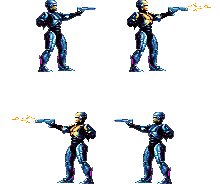
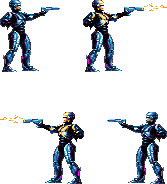
shooter funcionando a pleto

diff --git a/Entregable3/src/css/style.css b/Entregable3/src/css/style.css
@@ -60,7 +60,7 @@ html,body {
   /* Partimos de la primera viñeta del sprite sheet */
   0% { background-position: 0px}
   /* El tamaño total de ancho del sprite. Es negativo para que no "camine" hacia atrás */
-  100% { background-position:-763px}
+  100% { background-position:-760px}
 }
 @keyframes roboWalkRight {
   /* Partimos de la primera viñeta del sprite sheet */
@@ -70,9 +70,9 @@ html,body {
 }
 @keyframes shoot {
   /* Partimos de la primera viñeta del sprite sheet */
-  0% { background-position-x: -250px; background-position-y:0px }
+  0% { background-position-x: 0px;}
   /* El tamaño total de ancho del sprite. Es negativo para que no "camine" hacia atrás */
-  100% { background-position: 0px; background-position-y:84px }
+  100% { background-position-x: -167px;}
 }
 /* OPCIONAL: Guybrush */
 #gb {
@@ -97,7 +97,7 @@ html,body {
   /* filter:drop-shadow(5px 5px 5px #000); */
 }
 .robocopStand{
-  width:72px;
+  width:73px;
   height:84px;
   background:url(images/robocopStand3.png) no-repeat;
   animation: roboStand 1.2s steps(10) infinite;
@@ -120,10 +120,10 @@ html,body {
   /* filter:drop-shadow(5px 5px 5px #000); */
 }
 .robocopShooter {
-  width:60px;
-  height:84px;
+  width:83px;
+  height:92px;
   background:url(images/robocopShooter.png) no-repeat;
-  animation:shoot 0.5s steps(2) infinite;
+  animation:shoot 0.2s steps(2) infinite;
   margin:auto;
   position:relative;
   top:25px;

diff --git a/Entregable3/src/js/main.js b/Entregable3/src/js/main.js
@@ -9,7 +9,8 @@ document.addEventListener("DOMContentLoaded", () => {
   var space=false
   window.addEventListener("keydown", (e) => {
     stand=false;
-    console.log(e.key)
+    console.log(e.key);
+    console.log(robocop);
     if (e.key == "ArrowLeft") {
       keyLeft = true;
       keyRight = false;
